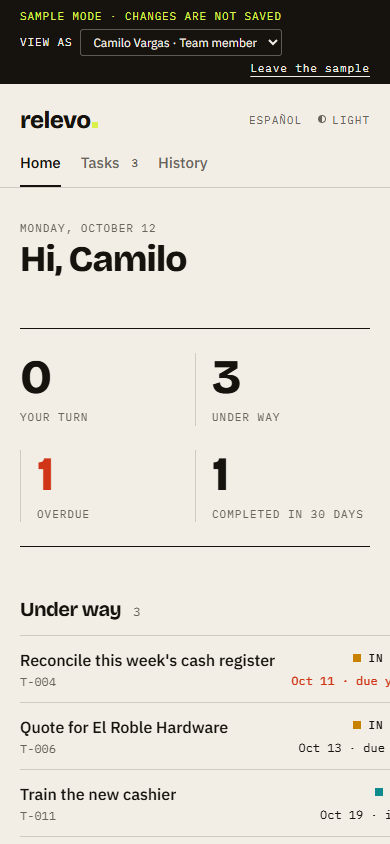
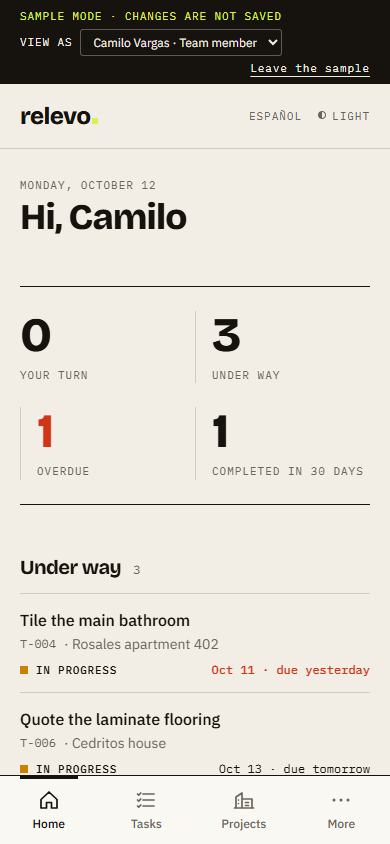
Capturas con la muestra de remodelaciones y cabecera de la lista alineada
- fiverr/imagenes: pantallas nuevas (obras, fotos, lista por obra).
- capturas-cliente: pantallas en español, de escritorio y de celular.
- La columna de prioridad vuelve a ocupar su lugar en la cabecera de la lista.

diff --git a/fiverr/index.html b/fiverr/index.html
@@ -96,7 +96,7 @@ GOOD TO KNOW
 Message me before ordering to confirm the scope.</pre><button type="button" class="copiar">Copiar</button></div>
 <h3>6 · Preguntas frecuentes</h3><p class="nota">Cada bloque es una pregunta y su respuesta.</p><div class="par"><div class="copiable "><pre>Can a team member see other people&#x27;s tasks?</pre><button type="button" class="copiar">Copiar</button></div><div class="copiable "><pre>No. The database itself only returns each person their own tasks and history. The admin sees everything.</pre><button type="button" class="copiar">Copiar</button></div></div><div class="par"><div class="copiable "><pre>How do users get access?</pre><button type="button" class="copiar">Copiar</button></div><div class="copiable "><pre>The admin creates an invitation and sends a one-time link. Each person sets their own password, so the admin never knows it. Access can be deactivated at any time.</pre><button type="button" class="copiar">Copiar</button></div></div><div class="par"><div class="copiable "><pre>Can you change the statuses, fields or workflow?</pre><button type="button" class="copiar">Copiar</button></div><div class="copiable "><pre>Yes, in the Premium package or as a custom offer. Tell me what your process looks like and I will confirm what is needed before you order.</pre><button type="button" class="copiar">Copiar</button></div></div><div class="par"><div class="copiable "><pre>Does it send email notifications?</pre><button type="button" class="copiar">Copiar</button></div><div class="copiable "><pre>Account emails (confirmation and password reset) are included. Notifications for each task step are not included; I can add them as a custom extra.</pre><button type="button" class="copiar">Copiar</button></div></div><div class="par"><div class="copiable "><pre>Are there monthly costs?</pre><button type="button" class="copiar">Copiar</button></div><div class="copiable "><pre>The hosting and database services have free plans that are enough for a small team. Larger teams may need a paid plan, and I tell you what applies before you order.</pre><button type="button" class="copiar">Copiar</button></div></div>
 <h3>7 · Preguntas para el comprador</h3><p class="nota">Van en el paso «Requirements». Déjalas como texto libre.</p><div class="copiable "><pre>Your company or team name and your logo (if you have one).</pre><button type="button" class="copiar">Copiar</button></div><div class="copiable "><pre>How many people will use it, and who will be the admin (name and email)?</pre><button type="button" class="copiar">Copiar</button></div><div class="copiable "><pre>Does the workflow in the demo fit your process, or do you need changes?</pre><button type="button" class="copiar">Copiar</button></div><div class="copiable "><pre>Which language should the app start in: English or Spanish?</pre><button type="button" class="copiar">Copiar</button></div><div class="copiable "><pre>Do you already own a domain? If yes, where did you buy it?</pre><button type="button" class="copiar">Copiar</button></div>
-<h3>8 · Imágenes</h3><p class="nota">Están en la carpeta <code>fiverr/imagenes</code>, al lado de esta página.</p><div class="imgs"><a class="img" href="imagenes/1-portada.png" target="_blank"><img src="imagenes/1-portada.png" alt="Portada (súbela primero)" loading="lazy"><span>1-portada.png · Portada (súbela primero)</span></a><a class="img" href="imagenes/2-como-funciona.png" target="_blank"><img src="imagenes/2-como-funciona.png" alt="Cómo funciona" loading="lazy"><span>2-como-funciona.png · Cómo funciona</span></a><a class="img" href="imagenes/3-informes.png" target="_blank"><img src="imagenes/3-informes.png" alt="Informes" loading="lazy"><span>3-informes.png · Informes</span></a><a class="img" href="imagenes/extra-tablero-admin.png" target="_blank"><img src="imagenes/extra-tablero-admin.png" alt="Extra · Tablero del administrador" loading="lazy"><span>extra-tablero-admin.png · Extra · Tablero del administrador</span></a><a class="img" href="imagenes/extra-lista-de-tareas.png" target="_blank"><img src="imagenes/extra-lista-de-tareas.png" alt="Extra · Lista de tareas" loading="lazy"><span>extra-lista-de-tareas.png · Extra · Lista de tareas</span></a><a class="img" href="imagenes/extra-revision.png" target="_blank"><img src="imagenes/extra-revision.png" alt="Extra · Revisión de una entrega" loading="lazy"><span>extra-revision.png · Extra · Revisión de una entrega</span></a><a class="img" href="imagenes/extra-tablero-empleado.png" target="_blank"><img src="imagenes/extra-tablero-empleado.png" alt="Extra · Tablero del empleado" loading="lazy"><span>extra-tablero-empleado.png · Extra · Tablero del empleado</span></a><a class="img" href="imagenes/extra-tarea-empleado.png" target="_blank"><img src="imagenes/extra-tarea-empleado.png" alt="Extra · Tarea vista por el empleado" loading="lazy"><span>extra-tarea-empleado.png · Extra · Tarea vista por el empleado</span></a><a class="img" href="imagenes/extra-equipo.png" target="_blank"><img src="imagenes/extra-equipo.png" alt="Extra · Equipo e invitaciones" loading="lazy"><span>extra-equipo.png · Extra · Equipo e invitaciones</span></a><a class="img" href="imagenes/extra-historial.png" target="_blank"><img src="imagenes/extra-historial.png" alt="Extra · Historial" loading="lazy"><span>extra-historial.png · Extra · Historial</span></a><a class="img" href="imagenes/extra-modo-oscuro.png" target="_blank"><img src="imagenes/extra-modo-oscuro.png" alt="Extra · Modo oscuro" loading="lazy"><span>extra-modo-oscuro.png · Extra · Modo oscuro</span></a><a class="img" href="imagenes/extra-entrada.png" target="_blank"><img src="imagenes/extra-entrada.png" alt="Extra · Página de entrada" loading="lazy"><span>extra-entrada.png · Extra · Página de entrada</span></a><a class="img" href="imagenes/extra-espanol-tablero.png" target="_blank"><img src="imagenes/extra-espanol-tablero.png" alt="Extra · En español" loading="lazy"><span>extra-espanol-tablero.png · Extra · En español</span></a><a class="img" href="imagenes/extra-celular-tablero.png" target="_blank"><img src="imagenes/extra-celular-tablero.png" alt="Extra · Celular" loading="lazy"><span>extra-celular-tablero.png · Extra · Celular</span></a><a class="img" href="imagenes/extra-celular-tarea.png" target="_blank"><img src="imagenes/extra-celular-tarea.png" alt="Extra · Celular, una tarea" loading="lazy"><span>extra-celular-tarea.png · Extra · Celular, una tarea</span></a></div>
+<h3>8 · Imágenes</h3><p class="nota">Están en la carpeta <code>fiverr/imagenes</code>, al lado de esta página.</p><div class="imgs"><a class="img" href="imagenes/1-portada.png" target="_blank"><img src="imagenes/1-portada.png" alt="Portada (súbela primero)" loading="lazy"><span>1-portada.png · Portada (súbela primero)</span></a><a class="img" href="imagenes/2-como-funciona.png" target="_blank"><img src="imagenes/2-como-funciona.png" alt="Cómo funciona" loading="lazy"><span>2-como-funciona.png · Cómo funciona</span></a><a class="img" href="imagenes/3-informes.png" target="_blank"><img src="imagenes/3-informes.png" alt="Informes" loading="lazy"><span>3-informes.png · Informes</span></a><a class="img" href="imagenes/extra-tablero-admin.png" target="_blank"><img src="imagenes/extra-tablero-admin.png" alt="Extra · Tablero del administrador" loading="lazy"><span>extra-tablero-admin.png · Extra · Tablero del administrador</span></a><a class="img" href="imagenes/extra-lista-de-tareas.png" target="_blank"><img src="imagenes/extra-lista-de-tareas.png" alt="Extra · Lista de tareas por obra" loading="lazy"><span>extra-lista-de-tareas.png · Extra · Lista de tareas por obra</span></a><a class="img" href="imagenes/extra-obras.png" target="_blank"><img src="imagenes/extra-obras.png" alt="Extra · Obras y su avance" loading="lazy"><span>extra-obras.png · Extra · Obras y su avance</span></a><a class="img" href="imagenes/extra-revision.png" target="_blank"><img src="imagenes/extra-revision.png" alt="Extra · Revisión de una entrega" loading="lazy"><span>extra-revision.png · Extra · Revisión de una entrega</span></a><a class="img" href="imagenes/extra-tablero-empleado.png" target="_blank"><img src="imagenes/extra-tablero-empleado.png" alt="Extra · Tablero del empleado" loading="lazy"><span>extra-tablero-empleado.png · Extra · Tablero del empleado</span></a><a class="img" href="imagenes/extra-tarea-empleado.png" target="_blank"><img src="imagenes/extra-tarea-empleado.png" alt="Extra · Tarea vista por el empleado" loading="lazy"><span>extra-tarea-empleado.png · Extra · Tarea vista por el empleado</span></a><a class="img" href="imagenes/extra-equipo.png" target="_blank"><img src="imagenes/extra-equipo.png" alt="Extra · Equipo e invitaciones" loading="lazy"><span>extra-equipo.png · Extra · Equipo e invitaciones</span></a><a class="img" href="imagenes/extra-historial.png" target="_blank"><img src="imagenes/extra-historial.png" alt="Extra · Historial" loading="lazy"><span>extra-historial.png · Extra · Historial</span></a><a class="img" href="imagenes/extra-modo-oscuro.png" target="_blank"><img src="imagenes/extra-modo-oscuro.png" alt="Extra · Modo oscuro" loading="lazy"><span>extra-modo-oscuro.png · Extra · Modo oscuro</span></a><a class="img" href="imagenes/extra-entrada.png" target="_blank"><img src="imagenes/extra-entrada.png" alt="Extra · Página de entrada" loading="lazy"><span>extra-entrada.png · Extra · Página de entrada</span></a><a class="img" href="imagenes/extra-espanol-tablero.png" target="_blank"><img src="imagenes/extra-espanol-tablero.png" alt="Extra · En español" loading="lazy"><span>extra-espanol-tablero.png · Extra · En español</span></a><a class="img" href="imagenes/extra-celular-tablero.png" target="_blank"><img src="imagenes/extra-celular-tablero.png" alt="Extra · Celular" loading="lazy"><span>extra-celular-tablero.png · Extra · Celular</span></a><a class="img" href="imagenes/extra-celular-tarea.png" target="_blank"><img src="imagenes/extra-celular-tarea.png" alt="Extra · Celular, una tarea" loading="lazy"><span>extra-celular-tarea.png · Extra · Celular, una tarea</span></a></div>
 </section>
 </main>
 <script>

diff --git a/src/components/ui.tsx b/src/components/ui.tsx
@@ -144,7 +144,10 @@ export function ListaTareas({
         <span className="rotulo">{t.campos.tarea}</span>
         <span className="rotulo">{conResponsable ? t.campos.responsable : ""}</span>
         <span className="rotulo">{t.campos.estado}</span>
-        <span className="rotulo sr-only">{t.campos.prioridad}</span>
+        {/* La columna de prioridad no lleva título visible, pero ocupa su lugar en la cuadrícula. */}
+        <span>
+          <span className="sr-only">{t.campos.prioridad}</span>
+        </span>
         <span className="rotulo text-right whitespace-nowrap">{t.campos.vence}</span>
       </div>
       {tareas.map((tarea) => (
